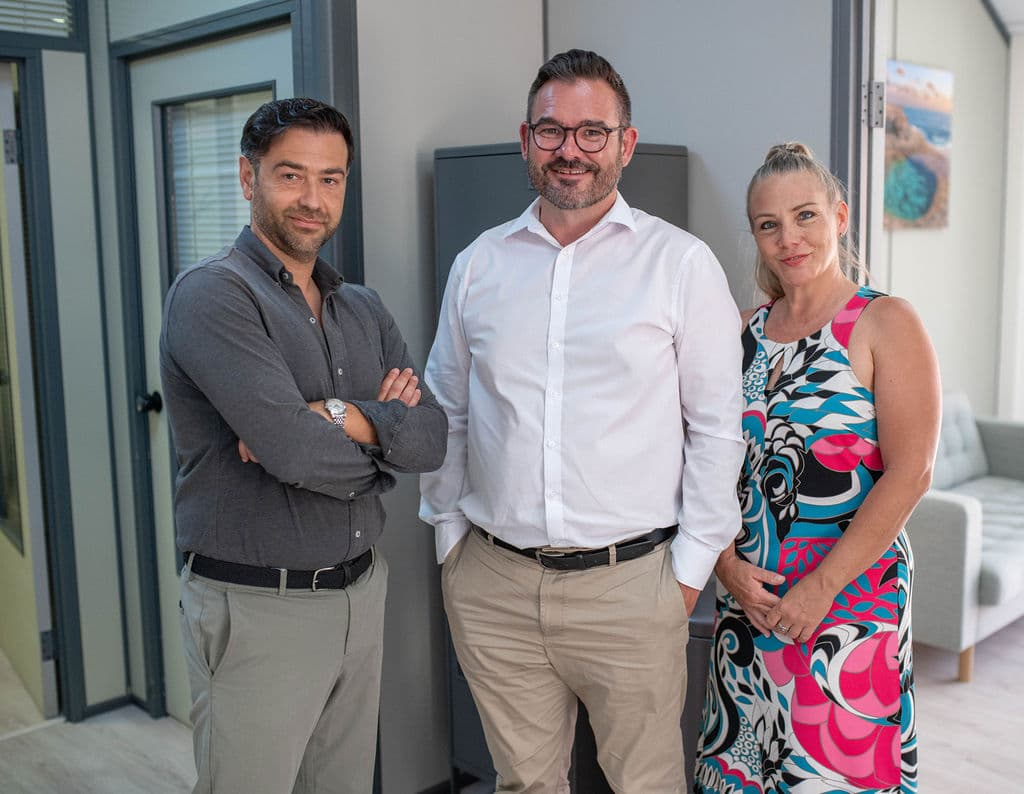
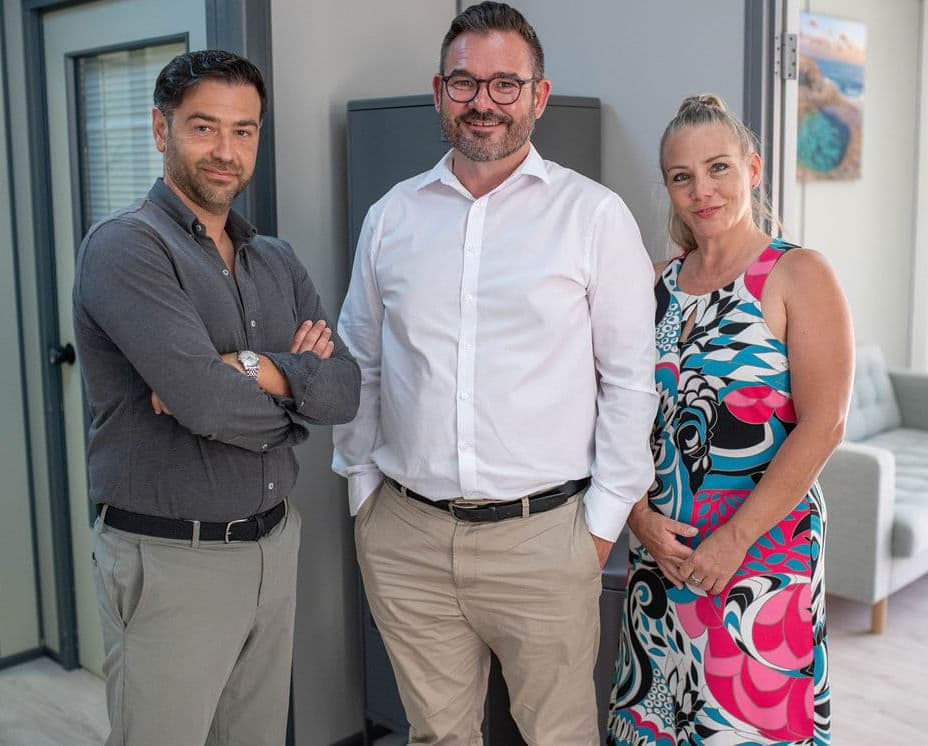
v1.2 - Production cloudways

diff --git a/src/pages/HomePage.tsx b/src/pages/HomePage.tsx
@@ -11,6 +11,7 @@ import {
 import Header from "../components/Header";
 import Footer from "../components/Footer";
 import HeroCarousel from "../components/HeroCarousel";
+import teamImage from "../assets/img/team/ART_7260.jpg";
 
 export default function HomePage() {
   return (
@@ -117,9 +118,9 @@ export default function HomePage() {
             </div>
             <div className="rounded-xl overflow-hidden shadow-lg aspect-video bg-gray-100">
               <img
-                src="https://images.unsplash.com/photo-1600880292203-757bb62b4baf?w=800&q=80"
+                src={teamImage}
                 alt="Mortgage consultation in progress"
-                className="w-full h-full object-cover"
+                className="w-full h-full object-cover object-top"
               />
             </div>
           </div>
@@ -365,18 +366,18 @@ export default function HomePage() {
               {[
                 {
                   quote:
-                    "The process was explained clearly from the start and we always knew what documents were needed next.",
-                  attr: "International buyer",
+                    "Everything was explained clearly, and I always knew which documents I needed to send next. It made the whole process much less stressful.",
+                  attr: "Sarah M.",
                 },
                 {
                   quote:
-                    "Professional, organised and reassuring throughout our Spanish mortgage application.",
-                  attr: "Property purchaser",
+                    "The team was responsive, professional, and kept us updated throughout our Spanish mortgage application. We'd happily use them again.",
+                  attr: "James T.",
                 },
                 {
                   quote:
-                    "A practical service for buyers who want independent guidance and local knowledge.",
-                  attr: "Tenerife client",
+                    "Having someone with local knowledge made a real difference. They answered our questions quickly and helped us avoid a few common pitfalls.",
+                  attr: "Laura H.",
                 },
               ].map(({ quote, attr }) => (
                 <div

diff --git a/src/pages/AboutPage.tsx b/src/pages/AboutPage.tsx
@@ -1,6 +1,9 @@
 import { Link } from "react-router-dom";
 import Header from "../components/Header";
 import Footer from "../components/Footer";
+import matImage from "../assets/img/team/ART_7231.jpg";
+import marImage from "../assets/img/team/ART_7201.jpg";
+import louImage from "../assets/img/team/ART_7183.jpg";
 
 const TEAM = [
   {
@@ -8,8 +11,7 @@ const TEAM = [
     name: "Matthew",
     role: "Senior Mortgage Consultant",
     tag: "Client Assessment & Mortgage Strategy",
-    photo:
-      "https://images.unsplash.com/photo-1560250097-0b93528c311a?w=600&q=80",
+    photo: matImage,
     quote:
       "I sit down with every client before a single form is filled. My job is to understand where you are, where you want to be, and what the lenders will need to see. I have spent years building relationships with Spanish banks and I use that knowledge to position your application as strongly as possible from the very first conversation.",
     credentials: [
@@ -23,8 +25,7 @@ const TEAM = [
     name: "Louise",
     role: "Client Relations & Operations",
     tag: "Documentation, Lender Liaison & Client Care",
-    photo:
-      "https://images.unsplash.com/photo-1573496359142-b8d87734a5a2?w=600&q=80",
+    photo: louImage,
     quote:
       "I am your point of contact from the moment your application goes in until the keys are in your hand. I track every document, chase every response and make sure nothing falls through the gaps. Buying abroad means navigating systems you have never encountered before — I am here to make that feel straightforward, not stressful.",
     credentials: [
@@ -38,8 +39,7 @@ const TEAM = [
     name: "Marco — Magna Financial",
     role: "Foreign Exchange Partner",
     tag: "International Payments & Currency Management",
-    photo:
-      "https://images.unsplash.com/photo-1507003211169-0a1dd7228f2d?w=600&q=80",
+    photo: marImage,
     quote:
       "I manage our relationships with Spanish banks and specialist finance partners so that you are never limited to a single lender's terms. I negotiate on your behalf using real market knowledge — not just published rates. My goal is to secure the most competitive structure available for your specific situation, whether that is a standard residential mortgage, a non-resident product or a more bespoke finance arrangement.",
     credentials: [

diff --git a/vite.config.ts b/vite.config.ts
@@ -1,11 +1,12 @@
-import { defineConfig } from 'vite'
-import react from '@vitejs/plugin-react'
+import { defineConfig } from "vite";
+import react from "@vitejs/plugin-react";
 
 export default defineConfig({
   plugins: [react()],
   test: {
-    environment: 'jsdom',
+    environment: "jsdom",
     globals: true,
-    exclude: ['e2e/**', 'node_modules/**'],
+    exclude: ["e2e/**", "node_modules/**"],
   },
-})
+  base: "/",
+});

diff --git a/src/pages/OurServicesPage.tsx b/src/pages/OurServicesPage.tsx
@@ -13,6 +13,7 @@ import {
 } from "lucide-react";
 import Header from "../components/Header";
 import Footer from "../components/Footer";
+import teamImage from "../assets/img/team/ART_7237.jpg";
 
 const CORE_SERVICES = [
   {
@@ -150,7 +151,7 @@ export default function OurServicesPage() {
             </div>
             <div className="rounded-xl overflow-hidden shadow-lg aspect-video bg-gray-100">
               <img
-                src="https://images.unsplash.com/photo-1505873242700-f289a29e1e0f?w=1400&q=80"
+                src={teamImage}
                 alt="Tenerife property — coastline and development"
                 className="w-full h-full object-cover"
               />